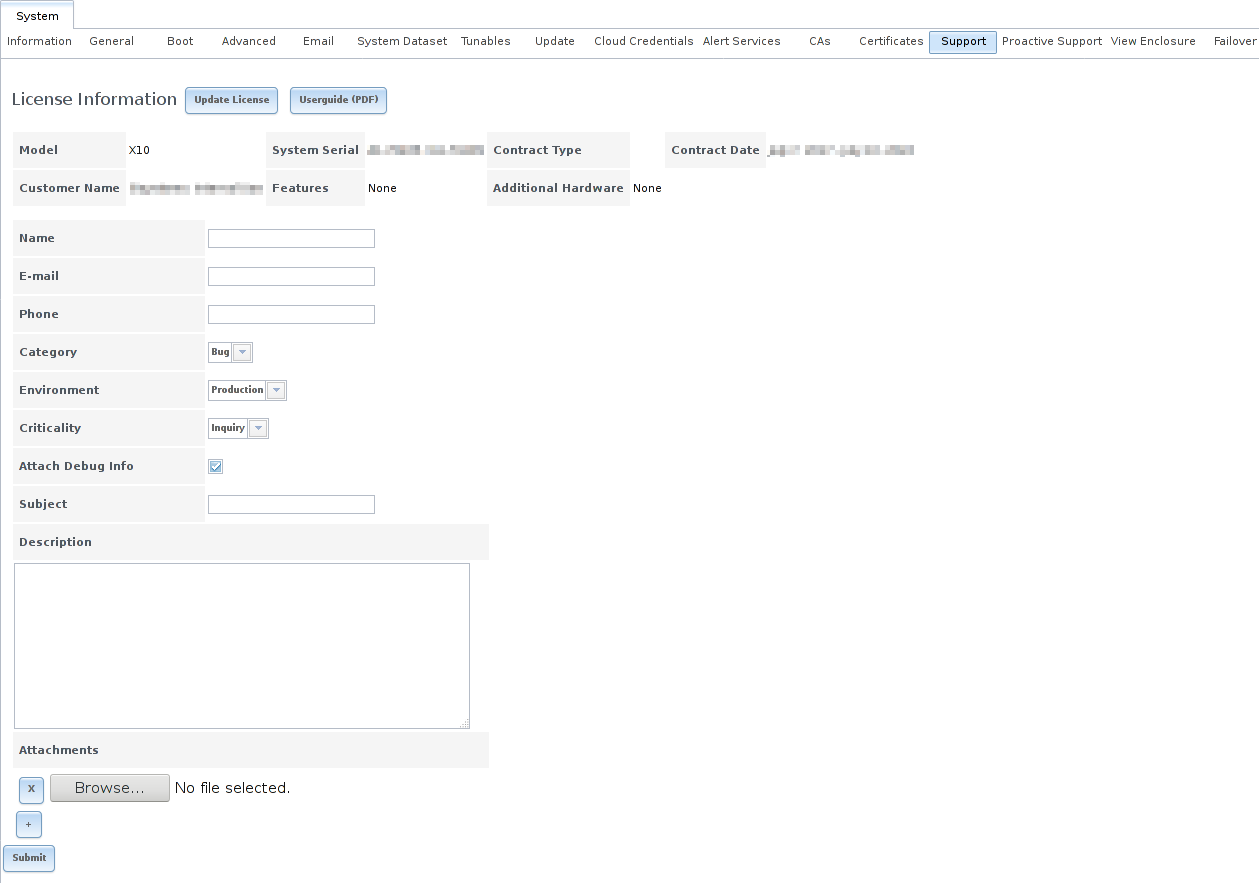
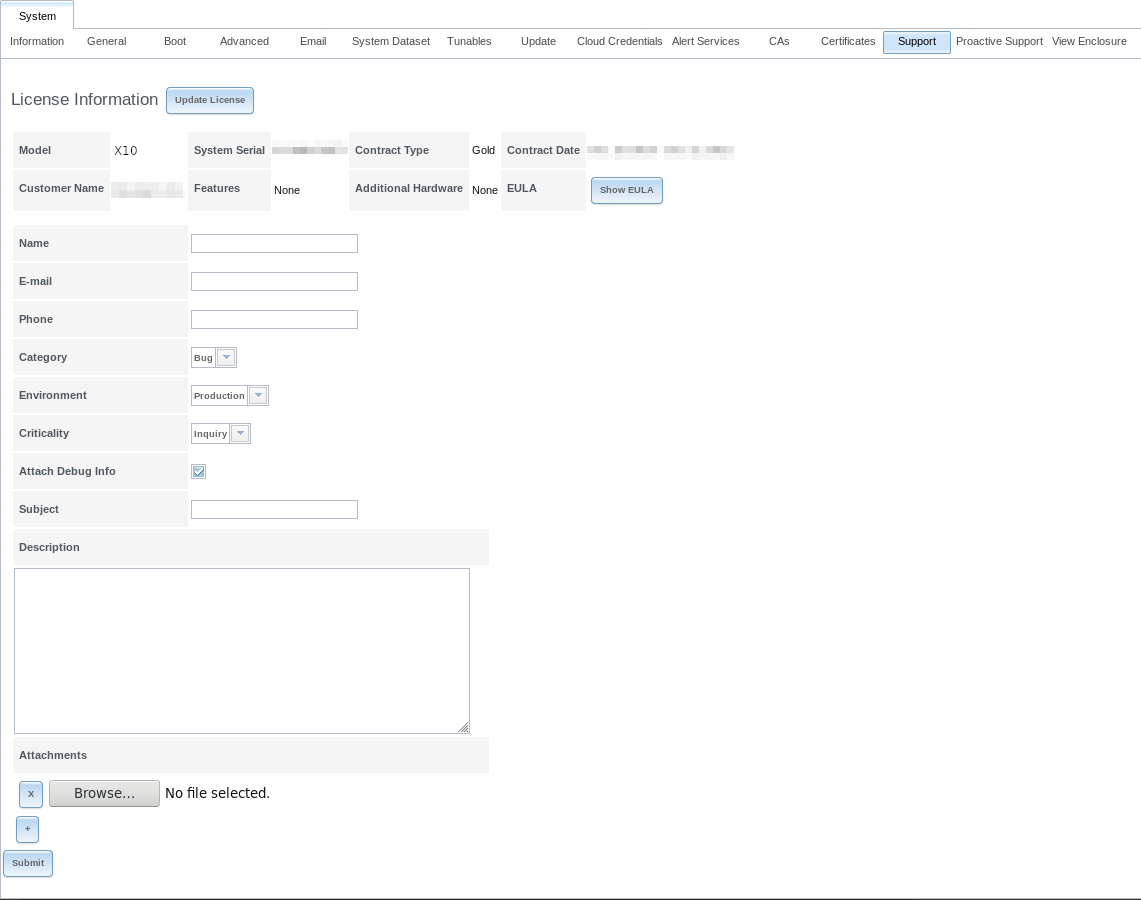
EULA & License image and text review: Synced with PR 570. TrueNAS HTML build test: no related issues.

diff --git a/userguide/tn_initial.rst b/userguide/tn_initial.rst
@@ -274,24 +274,22 @@ Enter the default password of *abcd1234*.
    :guilabel:`Password confirmation` fields, and click :guilabel:`OK`
    to save the new password to use on subsequent logins.
 
-On the first login, the EULA found in :ref:`Appendix A` is displayed,
-along with a box where the license key for the %brand% array can be
-pasted. Read the EULA, paste in the license key, then click
-:guilabel:`OK`. The administrative GUI appears, as shown in the
-example in
-:numref:`Figure %s <tn_initial>`.
+On the first login, the End User License Agreement (EULA) found in
+:ref:`Appendix A` is displayed, along with a box where the license key
+for the %brand% array can be pasted. Read the EULA, paste in the license
+key, then click :guilabel:`I agree` to accept the EULA and apply the
+license.
+
+Alternately, press :guilabel:`Cancel` if the license key is not yet
+available or you wish to discuss the EULA with an iXsystems
+representative before agreeing to it. Pressing :guilabel:`Cancel` still
+allows access to the administrative GUI but this initial screen
+continues to display at every login until the EULA is agreed to and the
+license applied.
 
 .. note:: Entering the license key for a High Availability pair is
    not allowed unless both the active and standby computers are up.
    The key is entered on the active computer.
-
-
-.. _tn_initial:
-
-.. figure:: images/tn_initial1c.png
-
-   %brand% Graphical Configuration Menu
-
 
 .. note:: If the storage devices have been encrypted, a prompt appears
    for the passphrase. It must be correctly entered for the data on
@@ -300,6 +298,17 @@ example in
    long as either node in the HA unit remains up. If both nodes are
    powered off, the passphrase must be re-entered when the first node
    powers back up.
+
+
+After the user has clicked :guilabel:`I agree` or :guilabel:`Cancel`,
+the administrative GUI appears, as shown in the example in
+:numref:`Figure %s <tn_initial>`.
+
+.. _tn_initial:
+
+.. figure:: images/tn_initial1c.png
+
+   %brand% Graphical Configuration Menu
 
 
 If the user interface is not accessible by IP address from a browser,

diff --git a/userguide/system.rst b/userguide/system.rst
@@ -2257,8 +2257,8 @@ requests.
 
 In this example, the system has a valid license which indicates the
 hardware model, system serial number, support contract type,
-licensed period, customer name, licensed features, and additional
-supported hardware.
+licensed period, customer name, licensed features, additional supported
+hardware, and a :guilabel:`Show EULA` button.
 
 If the license expires or additional hardware, features, or
 contract type are required, contact your iXsystems support
@@ -2299,7 +2299,8 @@ To generate a support ticket, fill in the fields:
   it.
 
 * **Attachments** is an optional field where configuration files or
-  screenshots of any errors or tracebacks can be included.
+  screenshots of any errors or tracebacks can be included. Click the
+  :guilabel:`+` button to add more attachments.
 
 After completing the fields, click the :guilabel:`Submit` button to
 generate and send the support ticket to iXsystems. A pop-up menu
